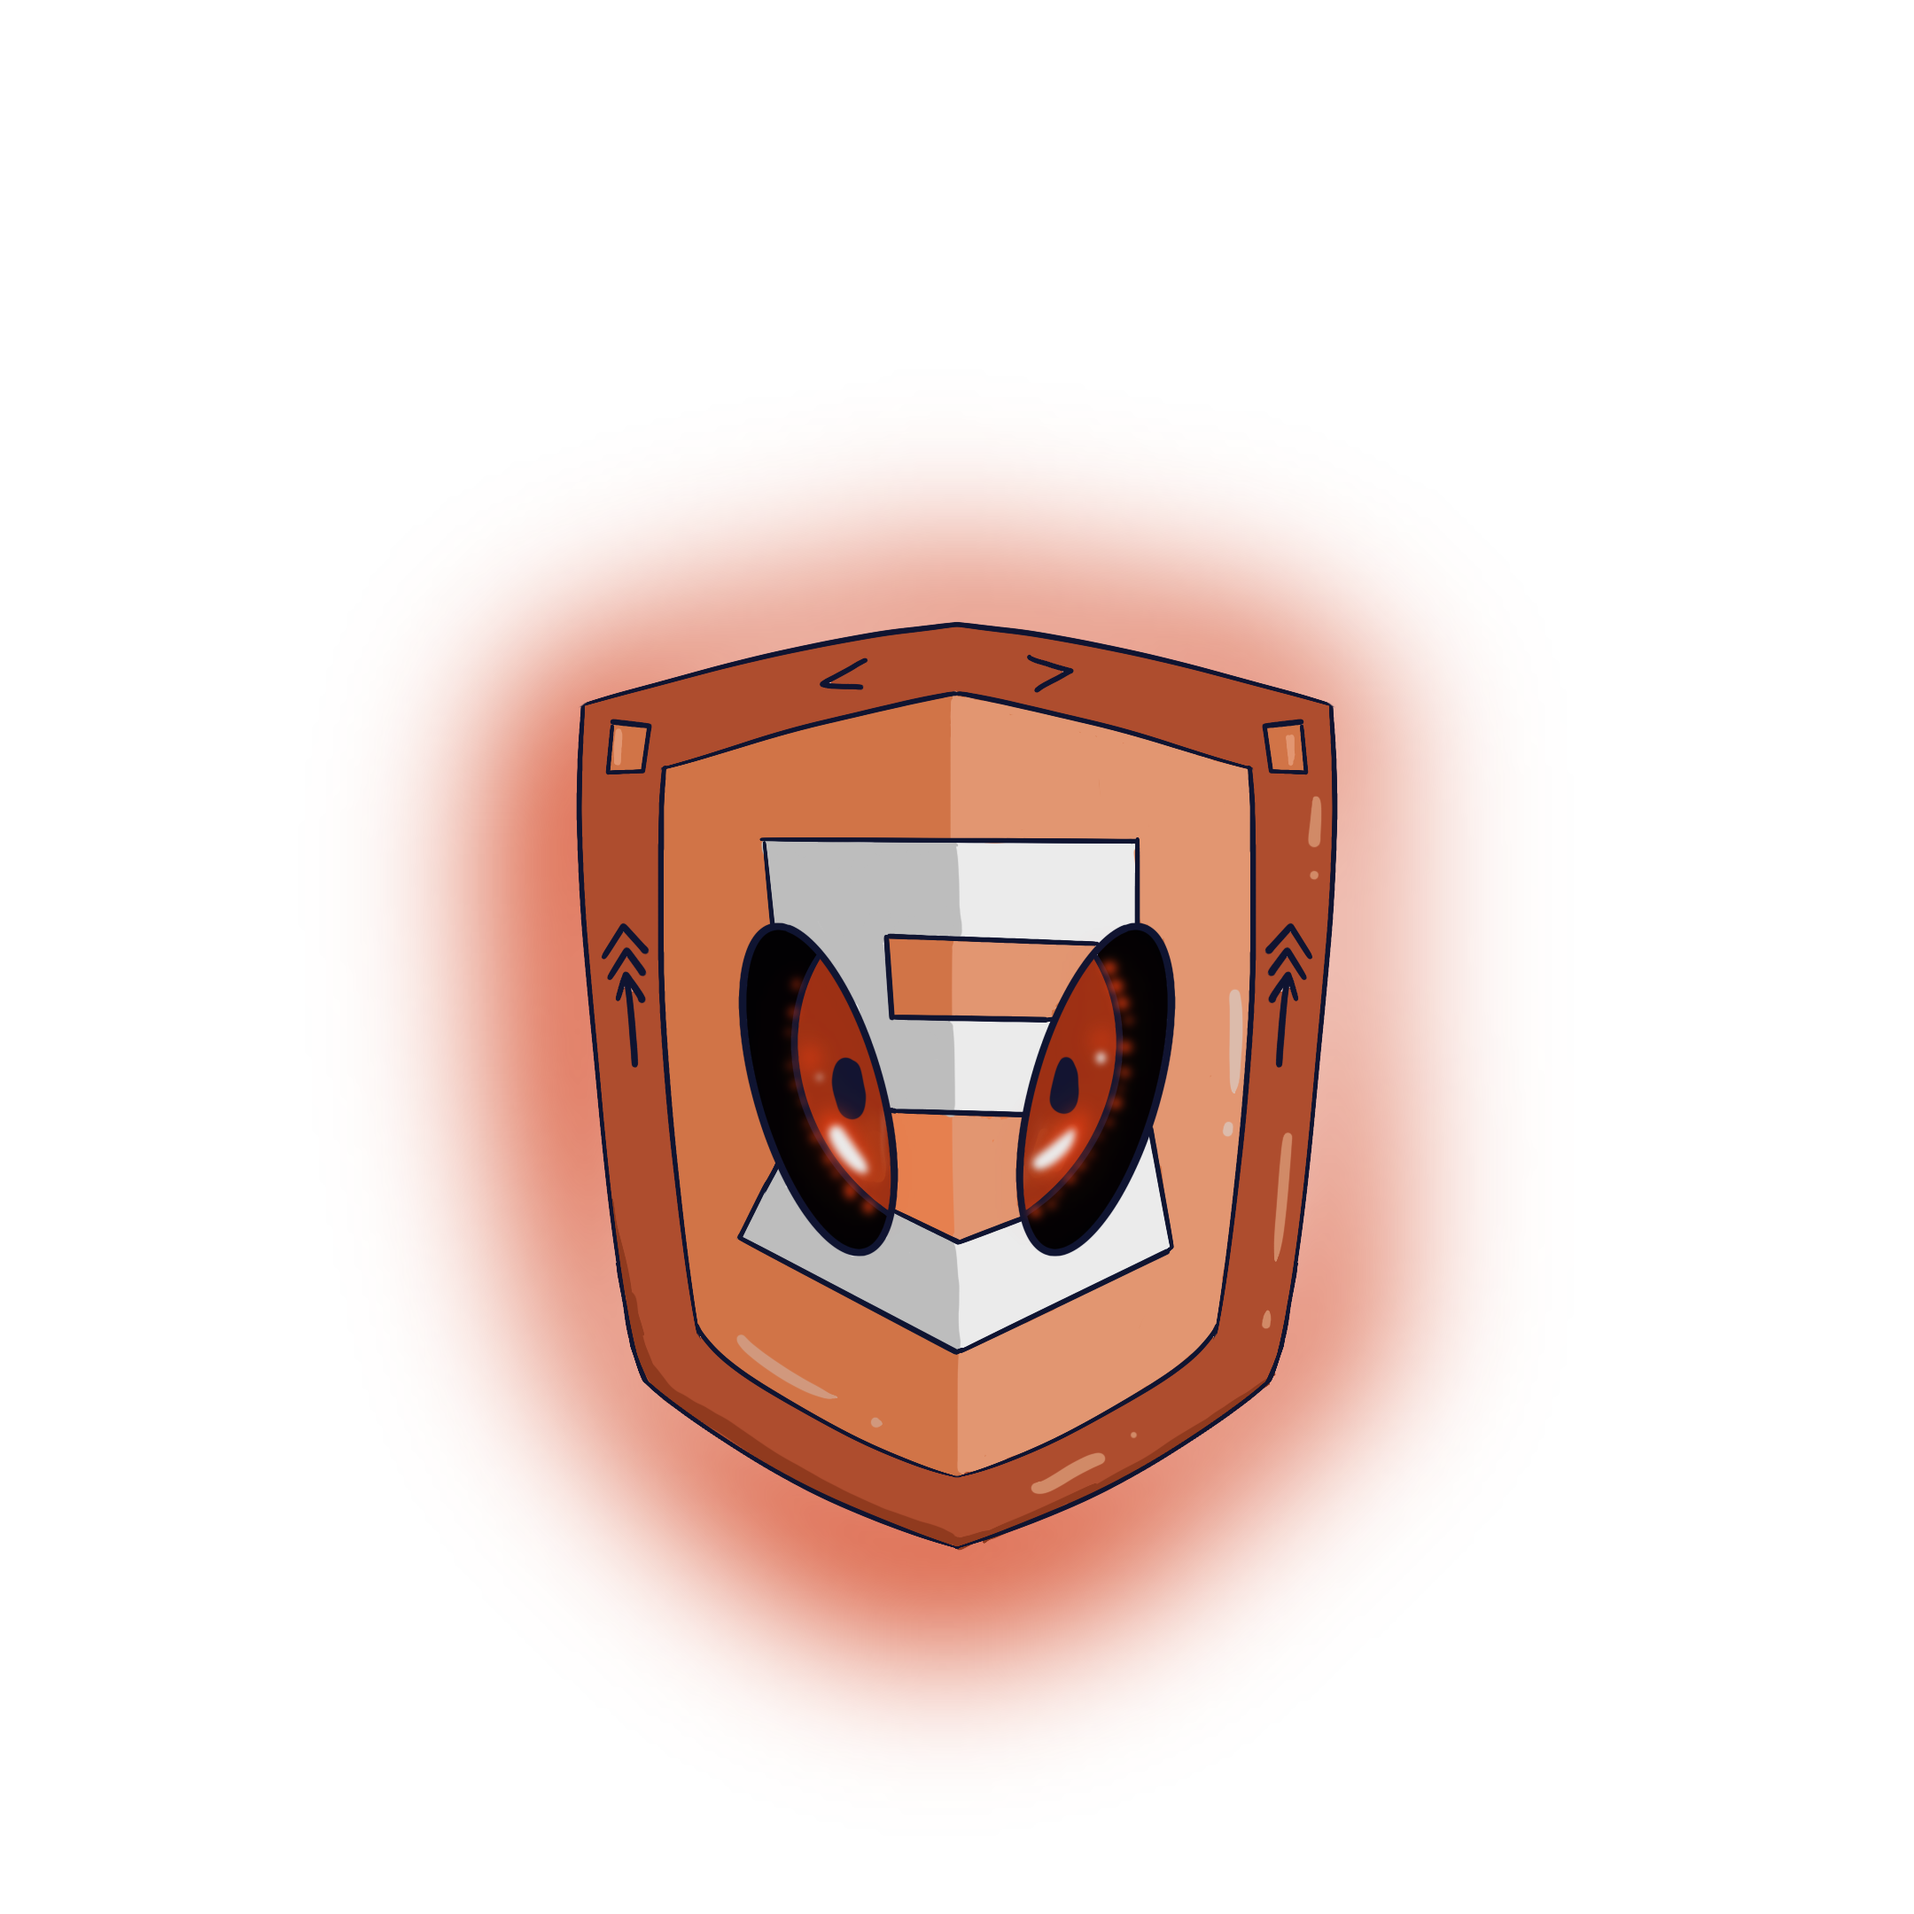
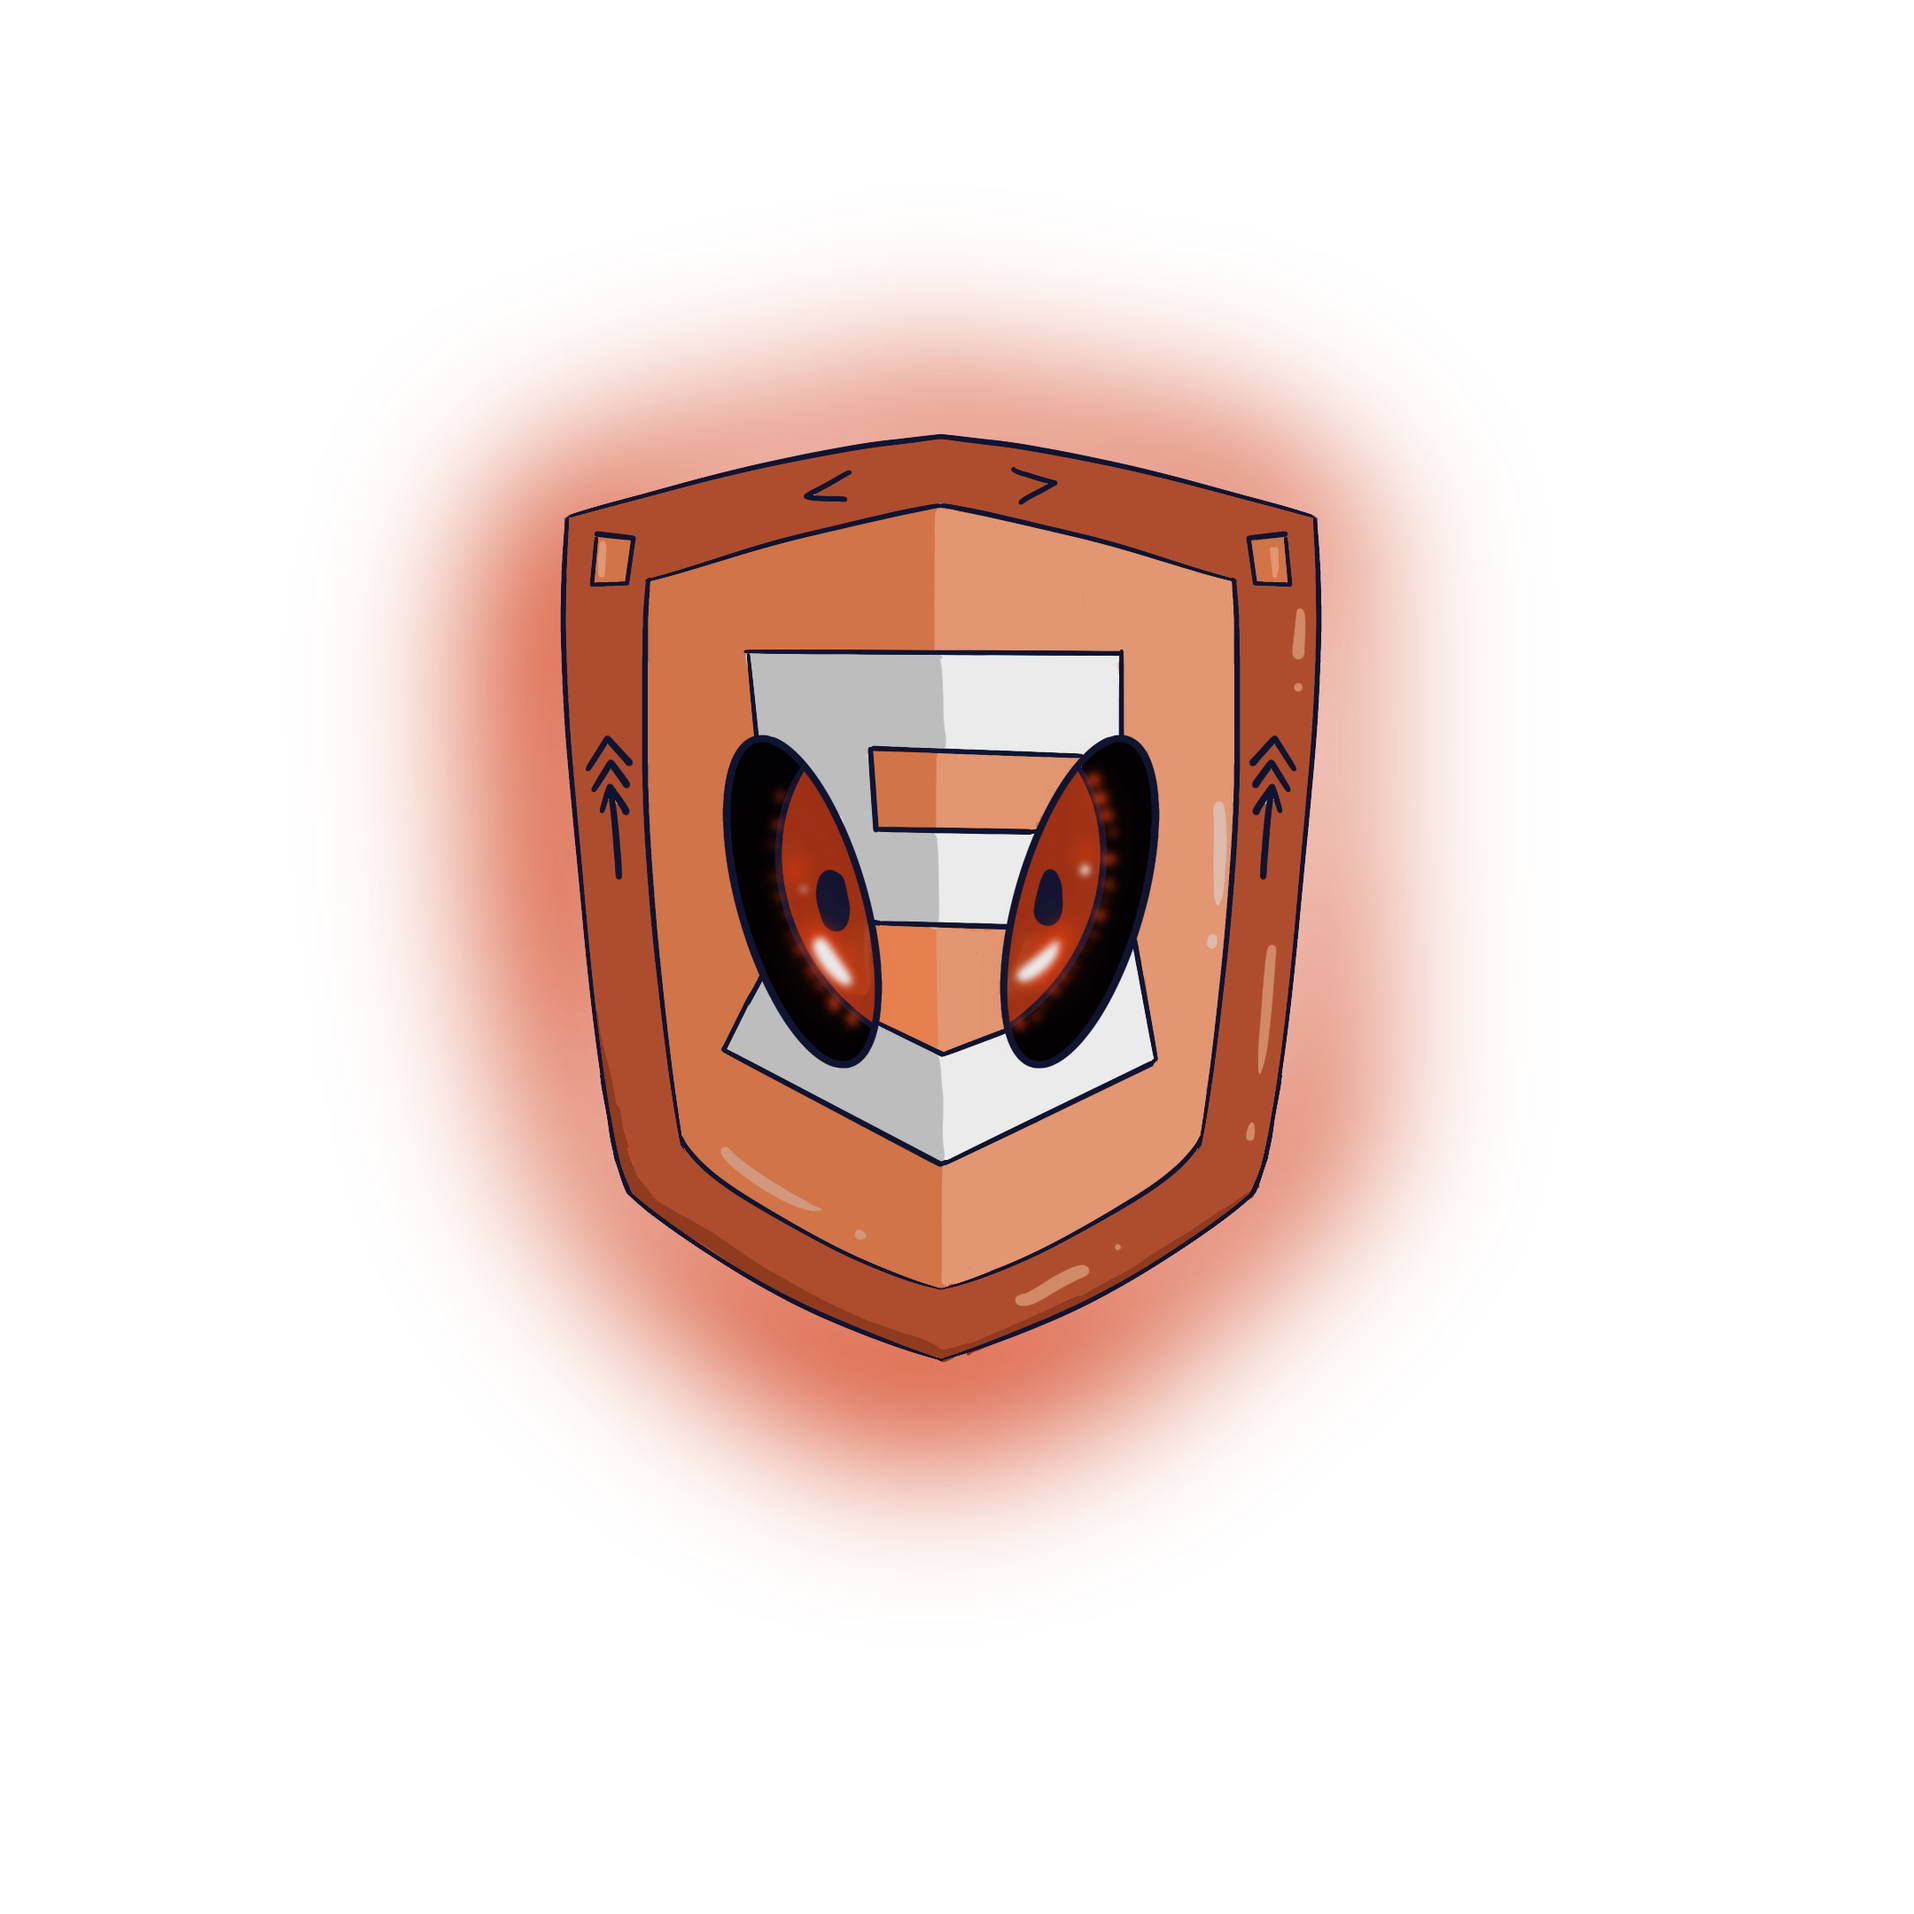
i added the lil size changes to the gallery

Changed region(s): [[0.1861, 0.1551, 0.7755, 0.8995]]

diff --git a/pages/gallery.html b/pages/gallery.html
@@ -22,9 +22,9 @@
   </header>
 
   <div class="circles">
-    <div><h5>MORE TO COME SOON!!</h5></div>
+    <div class="grid-item"><p id="blurb">Welcome! Meet some of the Adiemon!! :3<p></div>
     <div class="grid-item"><img id="pythonion-image" src="/images/pythonion.png" alt="pythonion"/></div>
-    <div class="grid-item"><h3 class="adiemon-titles"">PYTHONION</h2></div>
+    <div class="grid-item"><h3 class="adiemon-titles"">PYTHION</h2></div>
     <div class="grid-item"><img id="reactikitty-image" src="/images/reactikitty.png" alt="panda"/></div>
     <div class="grid-item"><h5 class="adiemon-titles">REACTIKITTY</h4></div>
     <div class="grid-item"><img id="htmlite-image" src="/images/htmlite.png" alt="panda"/></div>

diff --git a/stylesheets/gallery.css b/stylesheets/gallery.css
@@ -64,6 +64,10 @@ a {
     width: 500px;
 }
 
+.circles img:hover {
+    scale: 1.2;
+}
+
 .grid-item {
     display: grid;
     justify-content: center;
@@ -96,6 +100,10 @@ a {
     background-color: #bae1ff;
     border-radius: 50%;
     border: groove 20px #0392cf
-
 }
 
+
+#blurb {
+    padding-top: 100px;
+    font-family: 'PokemonGb';
+}
